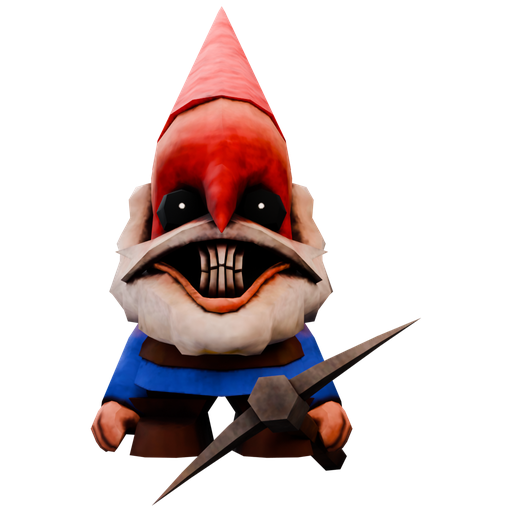
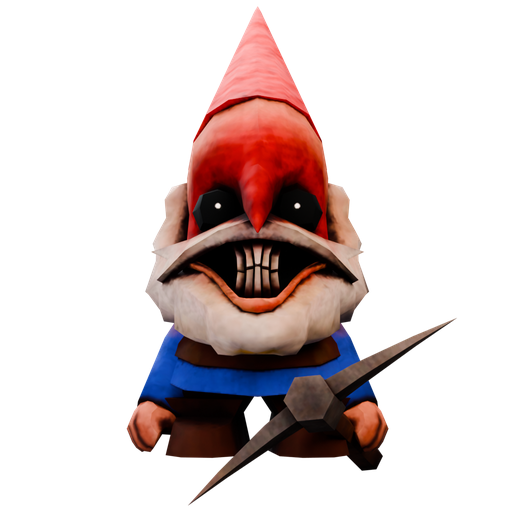
Release 26.11.6 with updated mod artwork and centered gnome

Changed region(s): [[0.1562, 0.0, 0.875, 1.0]]

diff --git a/overlay-hud/Plugin.cs b/overlay-hud/Plugin.cs
@@ -24,7 +24,7 @@ using UnityEngine.SceneManagement;
 
 namespace OverlayHUD
 {
-    [BepInPlugin("local.overlay.overlay_hud", "OverlayHUD", "26.11.5")]
+    [BepInPlugin("local.overlay.overlay_hud", "OverlayHUD", "26.11.6")]
     public sealed partial class Plugin : BaseUnityPlugin
     {
         private static Plugin instance;

diff --git a/README.md b/README.md
@@ -1,13 +1,17 @@
-# OverlayHUD 26.11.5
+# OverlayHUD 26.11.6
 
 Локальный HUD-оверлей для **R.E.P.O.**, который показывает информацию о текущем забеге внутри игры или в отдельном прозрачном окне.
 
 **Автор: EgorSalad**  
 **OverlayHUD целиком создан с использованием Codex AI.**
 **Ныне поддерживается с помощью Claude Sonnet 5.**
-**Версия 26.11.5: синхронизацию ХП необходимо проверить в игровом лобби перед публикацией.**
+**Версия 26.11.6: синхронизацию ХП необходимо проверить в игровом лобби перед публикацией.**
 
 > OverlayHUD — неофициальный фанатский проект. Он не связан с semiwork, издателем R.E.P.O. или Thunderstore.
+
+## Что нового в 26.11.6
+
+Обновлена иконка мода. В основном наборе иконок гном выровнен по центру карточки в Native и Electron.
 
 ## Что нового в 26.11.5
 
@@ -33,8 +37,8 @@
 
 | Архив | Состав и режим по умолчанию |
 | --- | --- |
-| `EgorSalad-OverlayHUD-26.11.5-Full.zip` | Native + Electron; по умолчанию **Electron**. Плагин распаковывает и запускает комплектное приложение, синхронизирует состояние забега и закрывает приложение после игры. Native выбирается в конфиге. |
-| `EgorSalad-OverlayHUD-26.11.5-Native.zip` | Только Unity HUD внутри игры. Отдельная DLL без кода запуска приложения и HTTP-моста, без архива приложения и его настроек. |
+| `EgorSalad-OverlayHUD-26.11.6-Full.zip` | Native + Electron; по умолчанию **Electron**. Плагин распаковывает и запускает комплектное приложение, синхронизирует состояние забега и закрывает приложение после игры. Native выбирается в конфиге. |
+| `EgorSalad-OverlayHUD-26.11.6-Native.zip` | Только Unity HUD внутри игры. Отдельная DLL без кода запуска приложения и HTTP-моста, без архива приложения и его настроек. |
 
 **Устанавливайте только один вариант в профиль.** При смене сборки удалите прежний пакет, не оставляйте вторую DLL или остатки приложения в каталоге мода. Сохраните нужные timestamps. При переходе со старых версий или между сборками закройте игру, сохраните резервную копию и удалите `BepInEx/config/local.overlay.overlay_hud.cfg`: новый конфиг создаётся при следующем запуске. Старые секции и значения не мигрируют; нужные настройки задайте заново в новых секциях.
 
@@ -328,7 +332,7 @@ flowchart TD
 ## Установка через r2modman
 
 1. Откройте r2modman, выберите R.E.P.O. и создайте или выберите профиль.
-2. В настройках профиля (`Settings`) найдите `Import local mod` и выберите **один** архив: `EgorSalad-OverlayHUD-26.11.5-Full.zip` или `EgorSalad-OverlayHUD-26.11.5-Native.zip`. Предварительно распаковывать ZIP не нужно.
+2. В настройках профиля (`Settings`) найдите `Import local mod` и выберите **один** архив: `EgorSalad-OverlayHUD-26.11.6-Full.zip` или `EgorSalad-OverlayHUD-26.11.6-Native.zip`. Предварительно распаковывать ZIP не нужно.
 3. Убедитесь, что в профиле установлен BepInExPack.
 4. Запустите игру через кнопку `Start modded` в r2modman.
 5. Full по умолчанию распакует и запустит `OverlayHUD.exe`; Native-only покажет HUD прямо в игре после загрузки уровня.
@@ -559,7 +563,7 @@ powershell -NoProfile -File tools/Build-Packages.ps1 -BundlePath "C:\build\Overl
 
 Без `-RebuildDesktop` используется существующий `overlay-hud/package-flat/OverlayHUD_app.zip` либо архив из `-BundlePath`. Он допускается только при совпадении версии приложения с релизом и SHA-256 веб-файлов, файлов приложения и всех файлов `assets/` с текущими исходниками. Устаревшее или неполное содержимое отклоняется с указанием пересобрать desktop; одной новой DLL для исправления старого Electron-бандла недостаточно. Свежий архив проходит те же проверки. Скрипт собирает оба варианта и проверяет точный состав обоих ZIP до копирования в корень. Без `-Force` любой уже существующий выходной ZIP останавливает работу до сборки. Даже с `-Force` архив `EgorSalad-OverlayHUD-26.11.2.zip` **никогда не затрагивается**.
 
-Результаты в корне: `EgorSalad-OverlayHUD-26.11.5-Full.zip` и `EgorSalad-OverlayHUD-26.11.5-Native.zip`.
+Результаты в корне: `EgorSalad-OverlayHUD-26.11.6-Full.zip` и `EgorSalad-OverlayHUD-26.11.6-Native.zip`.
 
 Full содержит ровно 7 записей без каталогов:
 

diff --git a/overlay-hud/package-flat/README.md b/overlay-hud/package-flat/README.md
@@ -1,4 +1,4 @@
-# OverlayHUD 26.11.5 — Native + Electron
+# OverlayHUD 26.11.6 — Native + Electron
 
 Локальный HUD для **R.E.P.O.** с двумя режимами: прозрачное окно Electron
 (**по умолчанию**) и Unity HUD внутри игры (Native).
@@ -8,6 +8,10 @@
 
 **Использование ИИ:** OverlayHUD целиком создан с использованием Codex AI.
 Разработка и поддержка ведутся с помощью ИИ.
+
+## Что нового в 26.11.6
+
+Обновлена иконка мода. В основном наборе иконок гном выровнен по центру карточки в Native и Electron.
 
 ## Что нового в 26.11.5
 
@@ -33,12 +37,12 @@
 По умолчанию монстры раскрываются только после встречи. Для точного респавна
 и синхронизации ХП в мультиплеере актуальный OverlayHUD нужен у хоста и клиентов.
 Числа урона показывают потерю ХП от любых источников, не персональный урон игрока.
-Синхронизацию ХП версии 26.11.5 необходимо проверить в игровом лобби перед публикацией.
+Синхронизацию ХП версии 26.11.6 необходимо проверить в игровом лобби перед публикацией.
 
 ## Установка и выбор сборки
 
 1. Установите BepInExPack для R.E.P.O. в профиль r2modman/Gale.
-2. Импортируйте `EgorSalad-OverlayHUD-26.11.5-Full.zip` как локальный мод,
+2. Импортируйте `EgorSalad-OverlayHUD-26.11.6-Full.zip` как локальный мод,
    без предварительной распаковки.
 3. Запустите игру с модами и дождитесь установки и запуска `OverlayHUD.exe`.
 
@@ -46,7 +50,7 @@
 Архив `OverlayHUD_app.zip` должен оставаться рядом с DLL. Node.js и Electron
 отдельно устанавливать не требуется.
 
-Есть альтернативный пакет `EgorSalad-OverlayHUD-26.11.5-Native.zip`: только Unity HUD,
+Есть альтернативный пакет `EgorSalad-OverlayHUD-26.11.6-Native.zip`: только Unity HUD,
 отдельная DLL без desktop-кода, HTTP-моста, архива приложения и его настроек.
 **Это тот же плагин: не устанавливайте оба варианта вместе.** При смене сборки
 закройте игру и приложение, сохраните нужные таймкоды и удалите прежний пакет целиком,

diff --git a/overlay-hud/package/README.md b/overlay-hud/package/README.md
@@ -1,4 +1,4 @@
-# OverlayHUD 26.11.5 — Native + Electron
+# OverlayHUD 26.11.6 — Native + Electron
 
 Локальный HUD для **R.E.P.O.** с двумя режимами: прозрачное окно Electron
 (**по умолчанию**) и Unity HUD внутри игры (Native).
@@ -8,6 +8,10 @@
 
 **Использование ИИ:** OverlayHUD целиком создан с использованием Codex AI.
 Разработка и поддержка ведутся с помощью ИИ.
+
+## Что нового в 26.11.6
+
+Обновлена иконка мода. В основном наборе иконок гном выровнен по центру карточки в Native и Electron.
 
 ## Что нового в 26.11.5
 
@@ -33,12 +37,12 @@
 По умолчанию монстры раскрываются только после встречи. Для точного респавна
 и синхронизации ХП в мультиплеере актуальный OverlayHUD нужен у хоста и клиентов.
 Числа урона показывают потерю ХП от любых источников, не персональный урон игрока.
-Синхронизацию ХП версии 26.11.5 необходимо проверить в игровом лобби перед публикацией.
+Синхронизацию ХП версии 26.11.6 необходимо проверить в игровом лобби перед публикацией.
 
 ## Установка и выбор сборки
 
 1. Установите BepInExPack для R.E.P.O. в профиль r2modman/Gale.
-2. Импортируйте `EgorSalad-OverlayHUD-26.11.5-Full.zip` как локальный мод,
+2. Импортируйте `EgorSalad-OverlayHUD-26.11.6-Full.zip` как локальный мод,
    без предварительной распаковки.
 3. Запустите игру с модами и дождитесь установки и запуска `OverlayHUD.exe`.
 
@@ -46,7 +50,7 @@
 Архив `OverlayHUD_app.zip` должен оставаться рядом с DLL. Node.js и Electron
 отдельно устанавливать не требуется.
 
-Есть альтернативный пакет `EgorSalad-OverlayHUD-26.11.5-Native.zip`: только Unity HUD,
+Есть альтернативный пакет `EgorSalad-OverlayHUD-26.11.6-Native.zip`: только Unity HUD,
 отдельная DLL без desktop-кода, HTTP-моста, архива приложения и его настроек.
 **Это тот же плагин: не устанавливайте оба варианта вместе.** При смене сборки
 закройте игру и приложение, сохраните нужные таймкоды и удалите прежний пакет целиком,

diff --git a/overlay-hud/README.md b/overlay-hud/README.md
@@ -4,7 +4,7 @@
 
 BepInEx plugin for displaying R.E.P.O. runtime state in a Unity HUD or a bundled desktop app.
 
-Two alternative distributions share the same plugin GUID, manifest identity and version 26.11.5:
+Two alternative distributions share the same plugin GUID, manifest identity and version 26.11.6:
 
 - **Full**: Native + Electron; `Renderer = Electron` by default.
 - **Native-only**: a separately compiled Unity HUD DLL, without desktop startup/storage or HTTP bridge code, an app archive, a renderer selector, or desktop config entries.
@@ -105,7 +105,7 @@ Before installing the update, close the game and any running OverlayHUD Electron
 
 ### Package contract
 
-`EgorSalad-OverlayHUD-26.11.5-Full.zip` has exactly seven root entries:
+`EgorSalad-OverlayHUD-26.11.6-Full.zip` has exactly seven root entries:
 
 ```text
 icon.png
@@ -117,6 +117,6 @@ LICENSE
 THIRD_PARTY_NOTICES.md
 ```
 
-`EgorSalad-OverlayHUD-26.11.5-Native.zip` has exactly six root entries: the same list without `OverlayHUD_app.zip`, using the separately compiled Native DLL and `package-native/` README, manifest and notices. Native notices include the complete font license without desktop runtime references. Full templates come from `package-flat/`; the icon and repository MIT license are shared. No directory entries or leading `./` records are added.
+`EgorSalad-OverlayHUD-26.11.6-Native.zip` has exactly six root entries: the same list without `OverlayHUD_app.zip`, using the separately compiled Native DLL and `package-native/` README, manifest and notices. Native notices include the complete font license without desktop runtime references. Full templates come from `package-flat/`; the icon and repository MIT license are shared. No directory entries or leading `./` records are added.
 
 A normal development build remains `dotnet build overlay-hud/OverlayHUD.csproj -c Release` (Full). For releases use the packaging script rather than manually copying a potentially stale DLL between layouts.
